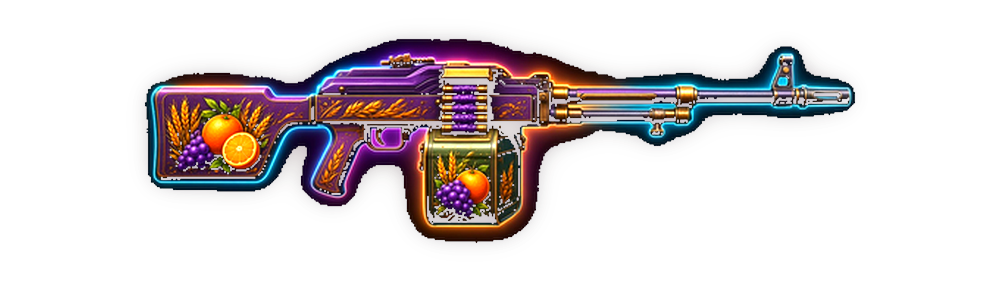
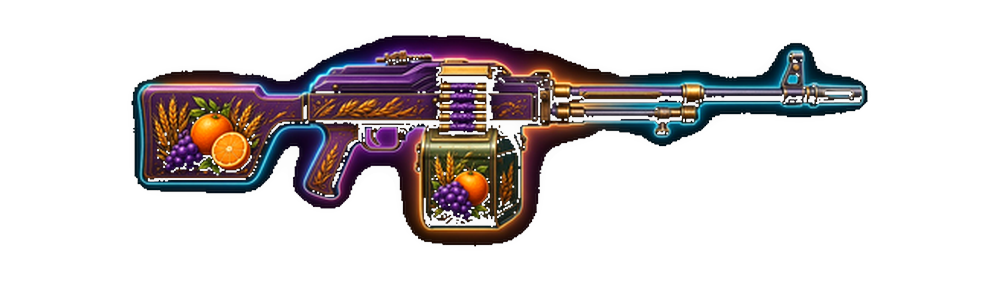
PKM patch: face left, softer glow, size like other weapons

Changed region(s): [[0.124, 0.1131, 0.868, 0.8763]]

diff --git a/src/app/globals.css b/src/app/globals.css
@@ -1589,26 +1589,24 @@ body:has(.tm-sapper-page) {
   }
 }
 
+/* Канон: ствол влево (scaleX(-1) если арт смотрит вправо). Свечение слабое — рисунок читается. */
 .nick-patch-mark[data-patch-id="creator-event-pkm-harvest"] {
-  width: 168px;
-  height: 52px;
-  filter: drop-shadow(0 0 8px rgba(150, 90, 255, 0.55));
+  width: 148px;
+  height: 46px;
+  filter: none;
 }
 .home-dock-col .nick-patch-mark.home-nick-patch[data-patch-id="creator-event-pkm-harvest"] {
-  width: 84px;
-  height: 28px;
+  width: 72px;
+  height: 24px;
 }
 .nick-patch-mark[data-patch-id="creator-event-pkm-harvest"]
   .nick-patch-mark-art {
-  transform: none;
-  opacity: 1;
+  transform: scaleX(-1);
+  opacity: 0.96;
   filter:
-    drop-shadow(0 0 4px rgba(210, 175, 255, 1))
-    drop-shadow(0 0 10px rgba(150, 90, 255, 0.95))
-    drop-shadow(0 0 18px rgba(255, 155, 50, 0.75))
-    brightness(1.12)
-    saturate(1.15) !important;
-  animation: event-pkm-harvest-glow 3.1s ease-in-out infinite !important;
+    drop-shadow(0 0 2px rgba(170, 120, 255, 0.55))
+    drop-shadow(0 0 6px rgba(255, 150, 55, 0.28)) !important;
+  animation: event-pkm-harvest-glow 3.6s ease-in-out infinite !important;
 }
 .nick-patch-mark[data-patch-id="creator-event-pkm-harvest"]:hover
   .nick-patch-mark-art,
@@ -1617,34 +1615,25 @@ body:has(.tm-sapper-page) {
 .nick-patch-mark[data-patch-id="creator-event-pkm-harvest"].is-active
   .nick-patch-mark-art {
   animation: none !important;
-  transform: scale(1.12);
+  transform: scaleX(-1) scale(1.08);
   filter:
-    drop-shadow(0 0 6px rgba(230, 200, 255, 1))
-    drop-shadow(0 0 14px rgba(170, 110, 255, 1))
-    drop-shadow(0 0 24px rgba(255, 165, 55, 0.95))
-    drop-shadow(0 0 32px rgba(255, 120, 35, 0.55))
-    brightness(1.28)
-    saturate(1.2) !important;
+    drop-shadow(0 0 3px rgba(190, 150, 255, 0.75))
+    drop-shadow(0 0 9px rgba(255, 160, 60, 0.45))
+    brightness(1.08) !important;
   opacity: 1;
 }
 @keyframes event-pkm-harvest-glow {
   0%,
   100% {
     filter:
-      drop-shadow(0 0 4px rgba(200, 165, 255, 0.95))
-      drop-shadow(0 0 10px rgba(145, 85, 255, 0.85))
-      drop-shadow(0 0 16px rgba(255, 150, 45, 0.65))
-      brightness(1.1)
-      saturate(1.12);
-    opacity: 1;
+      drop-shadow(0 0 2px rgba(170, 120, 255, 0.48))
+      drop-shadow(0 0 5px rgba(255, 150, 55, 0.22));
+    opacity: 0.94;
   }
   50% {
     filter:
-      drop-shadow(0 0 6px rgba(230, 200, 255, 1))
-      drop-shadow(0 0 14px rgba(170, 110, 255, 1))
-      drop-shadow(0 0 22px rgba(255, 170, 60, 0.9))
-      brightness(1.2)
-      saturate(1.18);
+      drop-shadow(0 0 3px rgba(185, 140, 255, 0.62))
+      drop-shadow(0 0 7px rgba(255, 155, 55, 0.32));
     opacity: 1;
   }
 }

diff --git a/src/app/profile-v2.css b/src/app/profile-v2.css
@@ -1422,15 +1422,13 @@ body.has-profile-bg .shell:has(.profile-page) {
 
 .profile-patch-tile[data-patch-id="creator-event-pkm-harvest"]
   .profile-patch-tile-art {
-  width: 98%;
-  transform: none;
+  width: 96%;
+  /* канон: ствол влево */
+  transform: scaleX(-1);
   filter:
-    drop-shadow(0 0 5px rgba(210, 175, 255, 1))
-    drop-shadow(0 0 12px rgba(150, 90, 255, 0.9))
-    drop-shadow(0 0 20px rgba(255, 155, 50, 0.7))
-    brightness(1.1)
-    saturate(1.12);
-  animation: event-pkm-harvest-tile-glow 3.1s ease-in-out infinite;
+    drop-shadow(0 0 2px rgba(170, 120, 255, 0.5))
+    drop-shadow(0 0 6px rgba(255, 150, 55, 0.25));
+  animation: event-pkm-harvest-tile-glow 3.6s ease-in-out infinite;
   transition: filter 0.15s ease, transform 0.15s ease;
 }
 .profile-patch-tile[data-patch-id="creator-event-pkm-harvest"]:hover
@@ -1440,31 +1438,23 @@ body.has-profile-bg .shell:has(.profile-page) {
 .profile-patch-tile[data-patch-id="creator-event-pkm-harvest"].is-selected
   .profile-patch-tile-art {
   animation: none;
-  transform: scale(1.08);
+  transform: scaleX(-1) scale(1.06);
   filter:
-    drop-shadow(0 0 7px rgba(230, 200, 255, 1))
-    drop-shadow(0 0 16px rgba(170, 110, 255, 1))
-    drop-shadow(0 0 26px rgba(255, 165, 55, 0.95))
-    brightness(1.22)
-    saturate(1.18);
+    drop-shadow(0 0 3px rgba(190, 150, 255, 0.72))
+    drop-shadow(0 0 9px rgba(255, 160, 60, 0.42))
+    brightness(1.06);
 }
 @keyframes event-pkm-harvest-tile-glow {
   0%,
   100% {
     filter:
-      drop-shadow(0 0 5px rgba(200, 165, 255, 0.95))
-      drop-shadow(0 0 12px rgba(145, 85, 255, 0.8))
-      drop-shadow(0 0 18px rgba(255, 150, 45, 0.6))
-      brightness(1.08)
-      saturate(1.1);
+      drop-shadow(0 0 2px rgba(170, 120, 255, 0.45))
+      drop-shadow(0 0 5px rgba(255, 150, 55, 0.2));
   }
   50% {
     filter:
-      drop-shadow(0 0 7px rgba(230, 200, 255, 1))
-      drop-shadow(0 0 16px rgba(170, 110, 255, 0.95))
-      drop-shadow(0 0 24px rgba(255, 170, 60, 0.85))
-      brightness(1.16)
-      saturate(1.15);
+      drop-shadow(0 0 3px rgba(185, 140, 255, 0.58))
+      drop-shadow(0 0 7px rgba(255, 155, 55, 0.3));
   }
 }
 

diff --git a/src/lib/profilePatches.ts b/src/lib/profilePatches.ts
@@ -96,7 +96,7 @@ export function profilePatchUrl(
     id === "hw2-knife-hook" || id === "hw2-ak-pumpkin"
       ? "?v=blood1"
       : id === "creator-event-pkm-harvest"
-        ? "?v=vis2"
+        ? "?v=vis3"
         : "";
   return `/bp-assets/${opt.file}${bust}`;
 }
